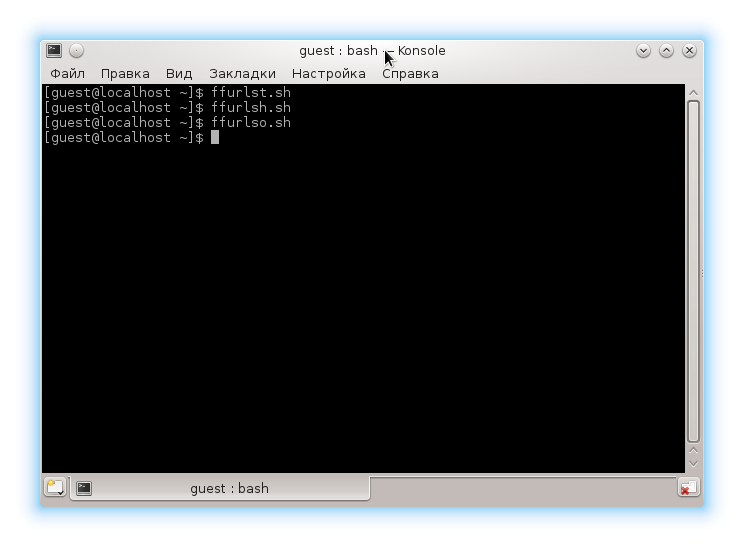
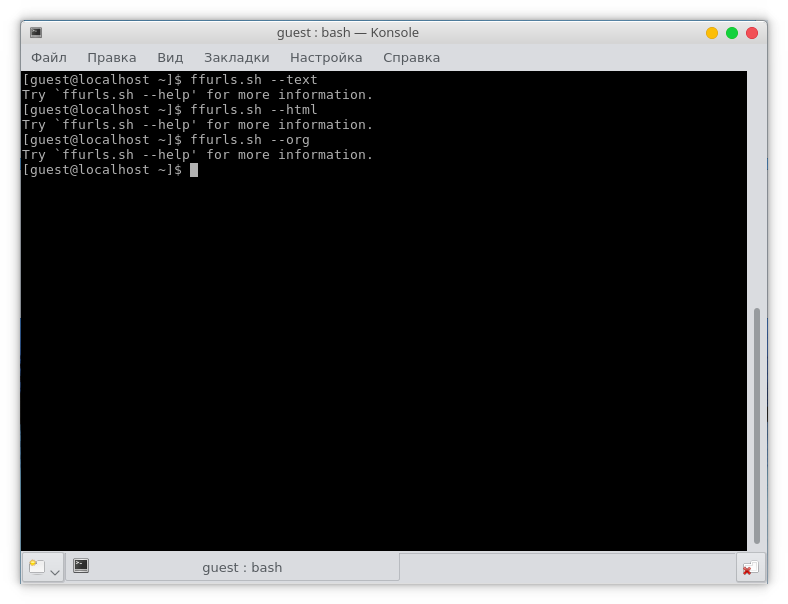
Change obsolete picture for the console commands

Changed region(s): [[0.0, 0.0, 0.9892, 0.9945]]

diff --git a/ffurls.md b/ffurls.md
@@ -21,7 +21,7 @@ in a selected format.
 
 [![](./assets/images/ffurls/screen-mini-ffurls1.png)](./assets/images/ffurls/screen-ffurls1.png)
 
-2) You open a console and run one of shell-scripts or the default shell-script.
+2) You open a console and run the shell-script with a parameter for the output format.
 
 [![](./assets/images/ffurls/screen-mini-ffurls2.png)](./assets/images/ffurls/screen-ffurls2.png)
 
